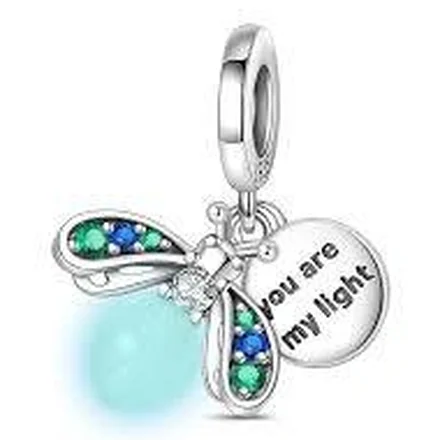
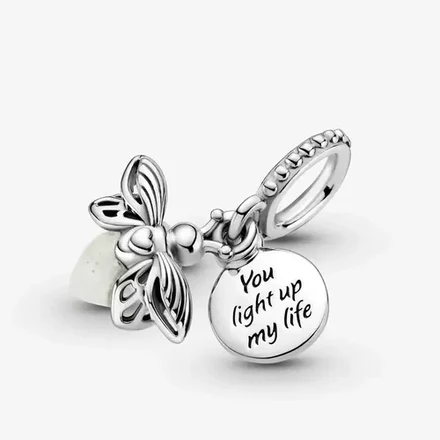
Luciernaga: nueva foto y nombre a "Luciernaga Evangeline"
Foto provista por el propietario reemplaza la de cristales de colores
(mal asignada / no era la pieza real). Nombre visible cambia de
Luciernaga "You Are My Light" a Luciernaga Evangeline. El id interno
(luciernaga-you-are-my-light) no cambia: lo usan stock.json,
catalogo.json y el feed de Meta, y renombrarlo hubiera roto inventario
y tracking sin necesidad.

- assets/luciernaga-you-are-my-light.webp reemplazada (misma ruta,
  redimensionada a 440x440 para igualar al resto del catalogo).
- index.html: nombre, alt y aria-label actualizados; ?v= del cache
  subido a 20260922 para que no sirva la foto vieja cacheada.
- tienda.js: campo "n" del DATA actualizado.
- assets/catalogo.json regenerado con extraer_catalogo.py (no se
  edito a mano). El script tiro un error de encoding de consola de
  Windows en un print posterior a escribir el archivo -- el archivo
  quedo bien, verificado con diff.
- Sin tocar precio, categoria ni id: no hizo falta actualizar
  stock.json.

Nota de coordinacion: al revisar antes de este cambio encontre que la
rama claude/charming-sagan-l4q2eq (otra sesion) esta pusheada con
commits de reconciliacion de inventario (bola-* -> murano-*), basada
en el mismo main y sin tocar este producto. Sin conflicto de archivos,
pero sigue sin fusionarse a main -- igual que esta rama.

Claude-Session: https://claude.ai/code/session_017kDDdEzVUGLbMt7rNzrt9m

Changed region(s): [[0.1182, 0.0295, 0.8864, 0.975]]

diff --git a/tienda.js b/tienda.js
@@ -9,7 +9,7 @@ const ENVIO={anticipado:15000, contraentrega:20000};
    opción más cara. Se dice de frente en el carrito, no en letra chica. */
 const LIBRE_SOLO_ANTICIPADO=true;
 let pago='anticipado';
-const DATA={"charms": [{"id": "mickey-mouse", "n": "Mickey Mouse", "p": 95000}, {"id": "minnie-mouse", "n": "Minnie Mouse", "p": 95000}, {"id": "dalmata", "n": "Dálmata", "p": 95000}, {"id": "ariel", "n": "Ariel", "p": 95000}, {"id": "jasmine", "n": "Jasmine", "p": 95000}, {"id": "blancanieves", "n": "Blancanieves", "p": 95000}, {"id": "princesa-bella", "n": "Princesa Bella", "p": 95000}, {"id": "olaf-de-frozen", "n": "Olaf de Frozen", "p": 95000}, {"id": "stitch-azul", "n": "Stitch Plateado", "p": 95000}, {"id": "stitch", "n": "Stitch", "p": 95000}, {"id": "angel", "n": "Angel", "p": 95000}, {"id": "lilo-stitch", "n": "Lilo & Stitch", "p": 95000}, {"id": "gato-cheshire", "n": "Gato Cheshire", "p": 95000}, {"id": "jack-sally", "n": "Jack & Sally", "p": 95000}, {"id": "buzz-lightyear", "n": "Buzz Lightyear", "p": 95000}, {"id": "casa-de-los-globos", "n": "Casa de los Globos", "p": 95000}, {"id": "mike-wazowski", "n": "Mike Wazowski", "p": 95000}, {"id": "sulley", "n": "Sulley", "p": 95000}, {"id": "walle", "n": "WALL·E", "p": 95000}, {"id": "capitan-america", "n": "Capitán América", "p": 95000}, {"id": "escudo-capitan-america", "n": "Escudo Capitán América", "p": 95000}, {"id": "spider-man", "n": "Spider-Man", "p": 95000}, {"id": "wolverine", "n": "Wolverine", "p": 95000}, {"id": "hulk", "n": "Hulk", "p": 95000}, {"id": "guantelete-del-infinito", "n": "Guantelete del Infinito", "p": 95000}, {"id": "iron-man", "n": "Iron Man", "p": 95000}, {"id": "deadpool", "n": "Deadpool", "p": 95000}, {"id": "mjolnir-martillo-de-thor", "n": "Mjolnir – Martillo de Thor", "p": 95000}, {"id": "groot-bebe", "n": "Groot Bebé", "p": 95000}, {"id": "casco-iron-man", "n": "Casco Iron Man", "p": 95000}, {"id": "mascara-un-gran-poder", "n": "Máscara Un Gran Poder", "p": 95000}, {"id": "esfera-telarana-spider-man", "n": "Esfera Telaraña Spider-Man", "p": 95000}, {"id": "spider-man-pave", "n": "Spider-Man Pavé", "p": 95000}, {"id": "mascara-spider-man-roja", "n": "Máscara Spider-Man Roja", "p": 95000}, {"id": "corazon-de-filigrana", "n": "Corazón de Filigrana", "p": 88000}, {"id": "clip-orquideas-moradas", "n": "Clip Orquídeas Moradas", "p": 78000}, {"id": "clip-mariposas-de-colores", "n": "Clip Mariposas de Colores", "p": 78000}, {"id": "clip-forever-multicolor", "n": "Clip Forever Multicolor", "p": 78000}, {"id": "clip-infinito-con-corazon", "n": "Clip Infinito con Corazón", "p": 78000}, {"id": "cadena-seguridad-love-forever", "n": "Cadena Seguridad Love Forever", "p": 75000}, {"id": "cadena-seguridad-hamsa-y-ojo", "n": "Cadena Seguridad Hamsa y Ojo", "p": 75000}, {"id": "cadena-seguridad-luna-y-sol", "n": "Cadena Seguridad Luna y Sol", "p": 75000}, {"id": "bola-rosa-con-flores", "n": "Bola Rosa con Flores", "p": 82000}, {"id": "osito-pave-con-corazon", "n": "Osito Pavé con Corazón", "p": 90000}, {"id": "angel-guardian", "n": "Ángel Guardián", "p": 86000}, {"id": "pulpo-azul-cristal", "n": "Pulpo Azul Cristal", "p": 94000}, {"id": "osito-graduacion", "n": "Osito Graduación", "p": 94000}, {"id": "caballo-herradura", "n": "Caballo Herradura", "p": 82000}, {"id": "manos-orando-con-cruz", "n": "Manos Orando con Cruz", "p": 86000}, {"id": "trebol-verde-giratorio", "n": "Trébol Verde Giratorio", "p": 94000}, {"id": "torre-eiffel-y-camara", "n": "Torre Eiffel y Cámara", "p": 82000}, {"id": "gatito-con-corazon-azul", "n": "Gatito con Corazón Azul", "p": 82000}, {"id": "huella-con-huesito", "n": "Huella con Huesito", "p": 82000}, {"id": "atrapasuenos-azul", "n": "Atrapasueños Azul", "p": 82000}, {"id": "tortuga-marina-cristal", "n": "Tortuga Marina Cristal", "p": 82000}, {"id": "osito-con-rosa-y-corazon", "n": "Osito con Rosa y Corazón", "p": 86000}, {"id": "atrapasuenos-corazon-multicolor", "n": "Atrapasueños Corazón Multicolor", "p": 82000}, {"id": "mariposas-tricolor-colgantes", "n": "Mariposas Tricolor Colgantes", "p": 82000}, {"id": "avion-globo-y-pasaporte", "n": "Avión, Globo y Pasaporte", "p": 82000}, {"id": "sol-y-luna-con-cristales", "n": "Sol y Luna con Cristales", "p": 82000}, {"id": "bola-roja-remolino", "n": "Bola Roja Remolino", "p": 82000}, {"id": "libelula-morada", "n": "Libélula Morada", "p": 82000}, {"id": "virgen-maria", "n": "Virgen María", "p": 86000}, {"id": "bola-azul-con-flor-rosa", "n": "Bola Azul con Flor Rosa", "p": 82000}, {"id": "elefantito-rosa", "n": "Elefantito Rosa", "p": 88000}, {"id": "conejita-con-corazon-rosa", "n": "Conejita con Corazón Rosa", "p": 86000}, {"id": "flor-azul-con-cristales", "n": "Flor Azul con Cristales", "p": 82000}, {"id": "camaleon-verde", "n": "Camaleón Verde", "p": 82000}, {"id": "esfera-azul-con-cristales", "n": "Esfera Azul con Cristales", "p": 82000}, {"id": "luciernaga-you-are-my-light", "n": "Luciérnaga \"You Are My Light\"", "p": 82000}, {"id": "corazon-arbol-de-la-vida", "n": "Corazón Árbol de la Vida", "p": 88000}, {"id": "charm-psicologia", "n": "Charm Psicología", "p": 82000}, {"id": "charm-odontologia", "n": "Charm Odontología", "p": 82000}, {"id": "charm-fisioterapia", "n": "Charm Fisioterapia", "p": 82000}, {"id": "charm-medicina", "n": "Charm Medicina", "p": 82000}, {"id": "carrusel-rosado", "n": "Carrusel Rosado", "p": 92000}, {"id": "aries", "n": "Aries", "p": 86000}, {"id": "tauro", "n": "Tauro", "p": 86000}, {"id": "geminis", "n": "Géminis", "p": 86000}, {"id": "cancer", "n": "Cáncer", "p": 86000}, {"id": "leo", "n": "Leo", "p": 86000}, {"id": "virgo", "n": "Virgo", "p": 86000}, {"id": "libra", "n": "Libra", "p": 86000}, {"id": "escorpio", "n": "Escorpio", "p": 86000}, {"id": "sagitario", "n": "Sagitario", "p": 86000}, {"id": "capricornio", "n": "Capricornio", "p": 86000}, {"id": "acuario", "n": "Acuario", "p": 86000}, {"id": "piscis", "n": "Piscis", "p": 86000}, {"id": "cenicienta", "n": "Cenicienta", "p": 95000}, {"id": "corazon-mama-e-hija", "n": "Corazón Mamá e Hija", "p": 78000}, {"id": "letra-a", "n": "Letra A", "p": 86000}, {"id": "letra-b", "n": "Letra B", "p": 86000}, {"id": "letra-c", "n": "Letra C", "p": 86000}, {"id": "letra-d", "n": "Letra D", "p": 86000}, {"id": "letra-e", "n": "Letra E", "p": 86000}, {"id": "letra-f", "n": "Letra F", "p": 86000}, {"id": "letra-g", "n": "Letra G", "p": 86000}, {"id": "letra-h", "n": "Letra H", "p": 86000}, {"id": "letra-i", "n": "Letra I", "p": 86000}, {"id": "letra-j", "n": "Letra J", "p": 86000}, {"id": "letra-k", "n": "Letra K", "p": 86000}, {"id": "letra-l", "n": "Letra L", "p": 86000}, {"id": "letra-m", "n": "Letra M", "p": 86000}, {"id": "letra-n", "n": "Letra N", "p": 86000}, {"id": "letra-ñ", "n": "Letra Ñ", "p": 86000}, {"id": "letra-o", "n": "Letra O", "p": 86000}, {"id": "letra-p", "n": "Letra P", "p": 86000}, {"id": "letra-q", "n": "Letra Q", "p": 86000}, {"id": "letra-r", "n": "Letra R", "p": 86000}, {"id": "letra-s", "n": "Letra S", "p": 86000}, {"id": "letra-t", "n": "Letra T", "p": 86000}, {"id": "letra-u", "n": "Letra U", "p": 86000}, {"id": "letra-v", "n": "Letra V", "p": 86000}, {"id": "letra-w", "n": "Letra W", "p": 86000}, {"id": "letra-x", "n": "Letra X", "p": 86000}, {"id": "letra-y", "n": "Letra Y", "p": 86000}, {"id": "letra-z", "n": "Letra Z", "p": 86000}], "pulseras": [{"id": "pulsera-corona-con-cristales", "n": "Pulsera Corona con Cristales", "p": 138000}, {"id": "pulsera-avengers", "n": "Pulsera Avengers", "p": 118000}, {"id": "pulsera-corazon-con-diamante", "n": "Pulsera Corazón con Diamante", "p": 118000}, {"id": "pulsera-corazon-liso", "n": "Pulsera Corazón Liso", "p": 118000}, {"id": "pulsera-clasica-cierre-barril", "n": "Pulsera Clásica Cierre Barril", "p": 118000}, {"id": "pulsera-corazon-pave", "n": "Pulsera Corazón Pavé", "p": 138000}, {"id": "pulsera-corazon-pave-pequeno", "n": "Pulsera Corazón Pavé Pequeño", "p": 118000}, {"id": "pulsera-sol-con-cadena-seguridad", "n": "Pulsera Sol con Cadena Seguridad", "p": 158000}, {"id": "pulsera-corona-pave", "n": "Pulsera Corona Pavé", "p": 138000}, {"id": "pulsera-mano-de-hamsa", "n": "Pulsera Mano de Hamsa", "p": 138000}, {"id": "pulsera-corazon-rosado-con-cadena", "n": "Pulsera Corazón Rosado con Cadena", "p": 158000}, {"id": "pulsera-corazon-luminoso", "n": "Pulsera Corazón Luminoso", "p": 138000}, {"id": "pulsera-copo-de-nieve", "n": "Pulsera Copo de Nieve", "p": 118000}, {"id": "pulsera-mickey-mouse-pave", "n": "Pulsera Mickey Mouse Pavé", "p": 138000}, {"id": "pulsera-candado-rosa-con-cadena", "n": "Pulsera Candado Rosa con Cadena", "p": 158000}, {"id": "pulsera-trebol-verde", "n": "Pulsera Trébol Verde", "p": 118000}, {"id": "pulsera-mono-rosa-con-cadena", "n": "Pulsera Moño Rosa con Cadena", "p": 158000}, {"id": "pulsera-rosa-clasica", "n": "Pulsera Rosa Clásica", "p": 118000}]};
+const DATA={"charms": [{"id": "mickey-mouse", "n": "Mickey Mouse", "p": 95000}, {"id": "minnie-mouse", "n": "Minnie Mouse", "p": 95000}, {"id": "dalmata", "n": "Dálmata", "p": 95000}, {"id": "ariel", "n": "Ariel", "p": 95000}, {"id": "jasmine", "n": "Jasmine", "p": 95000}, {"id": "blancanieves", "n": "Blancanieves", "p": 95000}, {"id": "princesa-bella", "n": "Princesa Bella", "p": 95000}, {"id": "olaf-de-frozen", "n": "Olaf de Frozen", "p": 95000}, {"id": "stitch-azul", "n": "Stitch Plateado", "p": 95000}, {"id": "stitch", "n": "Stitch", "p": 95000}, {"id": "angel", "n": "Angel", "p": 95000}, {"id": "lilo-stitch", "n": "Lilo & Stitch", "p": 95000}, {"id": "gato-cheshire", "n": "Gato Cheshire", "p": 95000}, {"id": "jack-sally", "n": "Jack & Sally", "p": 95000}, {"id": "buzz-lightyear", "n": "Buzz Lightyear", "p": 95000}, {"id": "casa-de-los-globos", "n": "Casa de los Globos", "p": 95000}, {"id": "mike-wazowski", "n": "Mike Wazowski", "p": 95000}, {"id": "sulley", "n": "Sulley", "p": 95000}, {"id": "walle", "n": "WALL·E", "p": 95000}, {"id": "capitan-america", "n": "Capitán América", "p": 95000}, {"id": "escudo-capitan-america", "n": "Escudo Capitán América", "p": 95000}, {"id": "spider-man", "n": "Spider-Man", "p": 95000}, {"id": "wolverine", "n": "Wolverine", "p": 95000}, {"id": "hulk", "n": "Hulk", "p": 95000}, {"id": "guantelete-del-infinito", "n": "Guantelete del Infinito", "p": 95000}, {"id": "iron-man", "n": "Iron Man", "p": 95000}, {"id": "deadpool", "n": "Deadpool", "p": 95000}, {"id": "mjolnir-martillo-de-thor", "n": "Mjolnir – Martillo de Thor", "p": 95000}, {"id": "groot-bebe", "n": "Groot Bebé", "p": 95000}, {"id": "casco-iron-man", "n": "Casco Iron Man", "p": 95000}, {"id": "mascara-un-gran-poder", "n": "Máscara Un Gran Poder", "p": 95000}, {"id": "esfera-telarana-spider-man", "n": "Esfera Telaraña Spider-Man", "p": 95000}, {"id": "spider-man-pave", "n": "Spider-Man Pavé", "p": 95000}, {"id": "mascara-spider-man-roja", "n": "Máscara Spider-Man Roja", "p": 95000}, {"id": "corazon-de-filigrana", "n": "Corazón de Filigrana", "p": 88000}, {"id": "clip-orquideas-moradas", "n": "Clip Orquídeas Moradas", "p": 78000}, {"id": "clip-mariposas-de-colores", "n": "Clip Mariposas de Colores", "p": 78000}, {"id": "clip-forever-multicolor", "n": "Clip Forever Multicolor", "p": 78000}, {"id": "clip-infinito-con-corazon", "n": "Clip Infinito con Corazón", "p": 78000}, {"id": "cadena-seguridad-love-forever", "n": "Cadena Seguridad Love Forever", "p": 75000}, {"id": "cadena-seguridad-hamsa-y-ojo", "n": "Cadena Seguridad Hamsa y Ojo", "p": 75000}, {"id": "cadena-seguridad-luna-y-sol", "n": "Cadena Seguridad Luna y Sol", "p": 75000}, {"id": "bola-rosa-con-flores", "n": "Bola Rosa con Flores", "p": 82000}, {"id": "osito-pave-con-corazon", "n": "Osito Pavé con Corazón", "p": 90000}, {"id": "angel-guardian", "n": "Ángel Guardián", "p": 86000}, {"id": "pulpo-azul-cristal", "n": "Pulpo Azul Cristal", "p": 94000}, {"id": "osito-graduacion", "n": "Osito Graduación", "p": 94000}, {"id": "caballo-herradura", "n": "Caballo Herradura", "p": 82000}, {"id": "manos-orando-con-cruz", "n": "Manos Orando con Cruz", "p": 86000}, {"id": "trebol-verde-giratorio", "n": "Trébol Verde Giratorio", "p": 94000}, {"id": "torre-eiffel-y-camara", "n": "Torre Eiffel y Cámara", "p": 82000}, {"id": "gatito-con-corazon-azul", "n": "Gatito con Corazón Azul", "p": 82000}, {"id": "huella-con-huesito", "n": "Huella con Huesito", "p": 82000}, {"id": "atrapasuenos-azul", "n": "Atrapasueños Azul", "p": 82000}, {"id": "tortuga-marina-cristal", "n": "Tortuga Marina Cristal", "p": 82000}, {"id": "osito-con-rosa-y-corazon", "n": "Osito con Rosa y Corazón", "p": 86000}, {"id": "atrapasuenos-corazon-multicolor", "n": "Atrapasueños Corazón Multicolor", "p": 82000}, {"id": "mariposas-tricolor-colgantes", "n": "Mariposas Tricolor Colgantes", "p": 82000}, {"id": "avion-globo-y-pasaporte", "n": "Avión, Globo y Pasaporte", "p": 82000}, {"id": "sol-y-luna-con-cristales", "n": "Sol y Luna con Cristales", "p": 82000}, {"id": "bola-roja-remolino", "n": "Bola Roja Remolino", "p": 82000}, {"id": "libelula-morada", "n": "Libélula Morada", "p": 82000}, {"id": "virgen-maria", "n": "Virgen María", "p": 86000}, {"id": "bola-azul-con-flor-rosa", "n": "Bola Azul con Flor Rosa", "p": 82000}, {"id": "elefantito-rosa", "n": "Elefantito Rosa", "p": 88000}, {"id": "conejita-con-corazon-rosa", "n": "Conejita con Corazón Rosa", "p": 86000}, {"id": "flor-azul-con-cristales", "n": "Flor Azul con Cristales", "p": 82000}, {"id": "camaleon-verde", "n": "Camaleón Verde", "p": 82000}, {"id": "esfera-azul-con-cristales", "n": "Esfera Azul con Cristales", "p": 82000}, {"id": "luciernaga-you-are-my-light", "n": "Luciérnaga Evangeline", "p": 82000}, {"id": "corazon-arbol-de-la-vida", "n": "Corazón Árbol de la Vida", "p": 88000}, {"id": "charm-psicologia", "n": "Charm Psicología", "p": 82000}, {"id": "charm-odontologia", "n": "Charm Odontología", "p": 82000}, {"id": "charm-fisioterapia", "n": "Charm Fisioterapia", "p": 82000}, {"id": "charm-medicina", "n": "Charm Medicina", "p": 82000}, {"id": "carrusel-rosado", "n": "Carrusel Rosado", "p": 92000}, {"id": "aries", "n": "Aries", "p": 86000}, {"id": "tauro", "n": "Tauro", "p": 86000}, {"id": "geminis", "n": "Géminis", "p": 86000}, {"id": "cancer", "n": "Cáncer", "p": 86000}, {"id": "leo", "n": "Leo", "p": 86000}, {"id": "virgo", "n": "Virgo", "p": 86000}, {"id": "libra", "n": "Libra", "p": 86000}, {"id": "escorpio", "n": "Escorpio", "p": 86000}, {"id": "sagitario", "n": "Sagitario", "p": 86000}, {"id": "capricornio", "n": "Capricornio", "p": 86000}, {"id": "acuario", "n": "Acuario", "p": 86000}, {"id": "piscis", "n": "Piscis", "p": 86000}, {"id": "cenicienta", "n": "Cenicienta", "p": 95000}, {"id": "corazon-mama-e-hija", "n": "Corazón Mamá e Hija", "p": 78000}, {"id": "letra-a", "n": "Letra A", "p": 86000}, {"id": "letra-b", "n": "Letra B", "p": 86000}, {"id": "letra-c", "n": "Letra C", "p": 86000}, {"id": "letra-d", "n": "Letra D", "p": 86000}, {"id": "letra-e", "n": "Letra E", "p": 86000}, {"id": "letra-f", "n": "Letra F", "p": 86000}, {"id": "letra-g", "n": "Letra G", "p": 86000}, {"id": "letra-h", "n": "Letra H", "p": 86000}, {"id": "letra-i", "n": "Letra I", "p": 86000}, {"id": "letra-j", "n": "Letra J", "p": 86000}, {"id": "letra-k", "n": "Letra K", "p": 86000}, {"id": "letra-l", "n": "Letra L", "p": 86000}, {"id": "letra-m", "n": "Letra M", "p": 86000}, {"id": "letra-n", "n": "Letra N", "p": 86000}, {"id": "letra-ñ", "n": "Letra Ñ", "p": 86000}, {"id": "letra-o", "n": "Letra O", "p": 86000}, {"id": "letra-p", "n": "Letra P", "p": 86000}, {"id": "letra-q", "n": "Letra Q", "p": 86000}, {"id": "letra-r", "n": "Letra R", "p": 86000}, {"id": "letra-s", "n": "Letra S", "p": 86000}, {"id": "letra-t", "n": "Letra T", "p": 86000}, {"id": "letra-u", "n": "Letra U", "p": 86000}, {"id": "letra-v", "n": "Letra V", "p": 86000}, {"id": "letra-w", "n": "Letra W", "p": 86000}, {"id": "letra-x", "n": "Letra X", "p": 86000}, {"id": "letra-y", "n": "Letra Y", "p": 86000}, {"id": "letra-z", "n": "Letra Z", "p": 86000}], "pulseras": [{"id": "pulsera-corona-con-cristales", "n": "Pulsera Corona con Cristales", "p": 138000}, {"id": "pulsera-avengers", "n": "Pulsera Avengers", "p": 118000}, {"id": "pulsera-corazon-con-diamante", "n": "Pulsera Corazón con Diamante", "p": 118000}, {"id": "pulsera-corazon-liso", "n": "Pulsera Corazón Liso", "p": 118000}, {"id": "pulsera-clasica-cierre-barril", "n": "Pulsera Clásica Cierre Barril", "p": 118000}, {"id": "pulsera-corazon-pave", "n": "Pulsera Corazón Pavé", "p": 138000}, {"id": "pulsera-corazon-pave-pequeno", "n": "Pulsera Corazón Pavé Pequeño", "p": 118000}, {"id": "pulsera-sol-con-cadena-seguridad", "n": "Pulsera Sol con Cadena Seguridad", "p": 158000}, {"id": "pulsera-corona-pave", "n": "Pulsera Corona Pavé", "p": 138000}, {"id": "pulsera-mano-de-hamsa", "n": "Pulsera Mano de Hamsa", "p": 138000}, {"id": "pulsera-corazon-rosado-con-cadena", "n": "Pulsera Corazón Rosado con Cadena", "p": 158000}, {"id": "pulsera-corazon-luminoso", "n": "Pulsera Corazón Luminoso", "p": 138000}, {"id": "pulsera-copo-de-nieve", "n": "Pulsera Copo de Nieve", "p": 118000}, {"id": "pulsera-mickey-mouse-pave", "n": "Pulsera Mickey Mouse Pavé", "p": 138000}, {"id": "pulsera-candado-rosa-con-cadena", "n": "Pulsera Candado Rosa con Cadena", "p": 158000}, {"id": "pulsera-trebol-verde", "n": "Pulsera Trébol Verde", "p": 118000}, {"id": "pulsera-mono-rosa-con-cadena", "n": "Pulsera Moño Rosa con Cadena", "p": 158000}, {"id": "pulsera-rosa-clasica", "n": "Pulsera Rosa Clásica", "p": 118000}]};
 const byId=(a)=>a.reduce((o,x)=>(o[x.id]=x,o),{});
 const CH=byId(DATA.charms), PU=byId(DATA.pulseras);
 const TALLAS=['17','18','19','20','21'];

diff --git a/index.html b/index.html
@@ -728,9 +728,9 @@ src="https://www.facebook.com/tr?id=2130673404542988&ev=PageView&noscript=1"/></
 <div class="pc-body"><h3 class="pc-name">Esfera Azul con Cristales</h3><p class="pc-meta">S925</p>
 <div class="pc-foot"><span class="pc-price">$82.000</span><button class="pc-add" type="button" data-add="esfera-azul-con-cristales" aria-label="Agregar Esfera Azul con Cristales">Agregar</button></div></div></article>
 <article class="pc" data-id="luciernaga-you-are-my-light" data-g="Símbolos">
-<div class="pc-img"><img src="assets/luciernaga-you-are-my-light.webp?v=20260822" alt="Luciérnaga &quot;You Are My Light&quot;" width="440" height="440" loading="lazy" decoding="async"><span class="pc-mark">Plata 925</span></div>
-<div class="pc-body"><h3 class="pc-name">Luciérnaga &quot;You Are My Light&quot;</h3><p class="pc-meta">Dije colgante</p>
-<div class="pc-foot"><span class="pc-price">$82.000</span><button class="pc-add" type="button" data-add="luciernaga-you-are-my-light" aria-label="Agregar Luciérnaga &quot;You Are My Light&quot;">Agregar</button></div></div></article>
+<div class="pc-img"><img src="assets/luciernaga-you-are-my-light.webp?v=20260922" alt="Luciérnaga Evangeline" width="440" height="440" loading="lazy" decoding="async"><span class="pc-mark">Plata 925</span></div>
+<div class="pc-body"><h3 class="pc-name">Luciérnaga Evangeline</h3><p class="pc-meta">Dije colgante</p>
+<div class="pc-foot"><span class="pc-price">$82.000</span><button class="pc-add" type="button" data-add="luciernaga-you-are-my-light" aria-label="Agregar Luciérnaga Evangeline">Agregar</button></div></div></article>
 <article class="pc" data-id="corazon-arbol-de-la-vida" data-g="Símbolos">
 <div class="pc-img"><img src="assets/corazon-arbol-de-la-vida.webp?v=20260822" alt="Corazón Árbol de la Vida" width="440" height="440" loading="lazy" decoding="async"><span class="pc-mark">Plata 925</span></div>
 <div class="pc-body"><h3 class="pc-name">Corazón Árbol de la Vida</h3><p class="pc-meta">S925</p>
